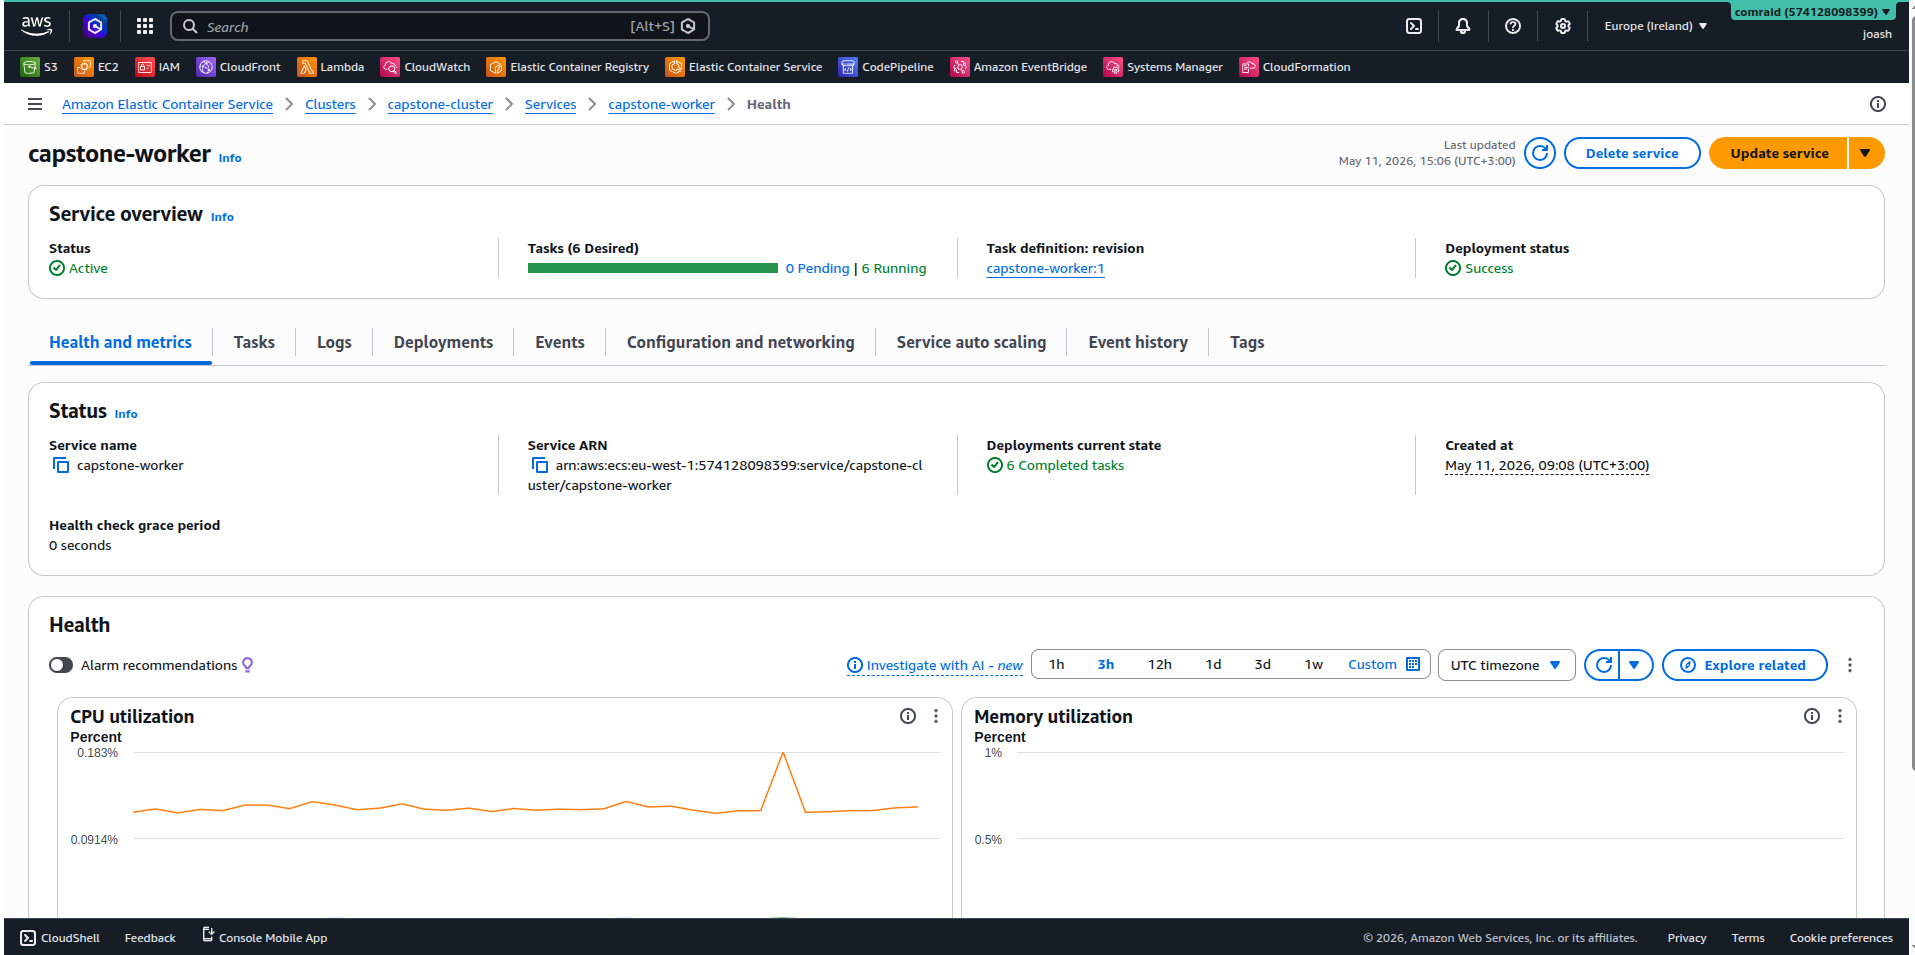
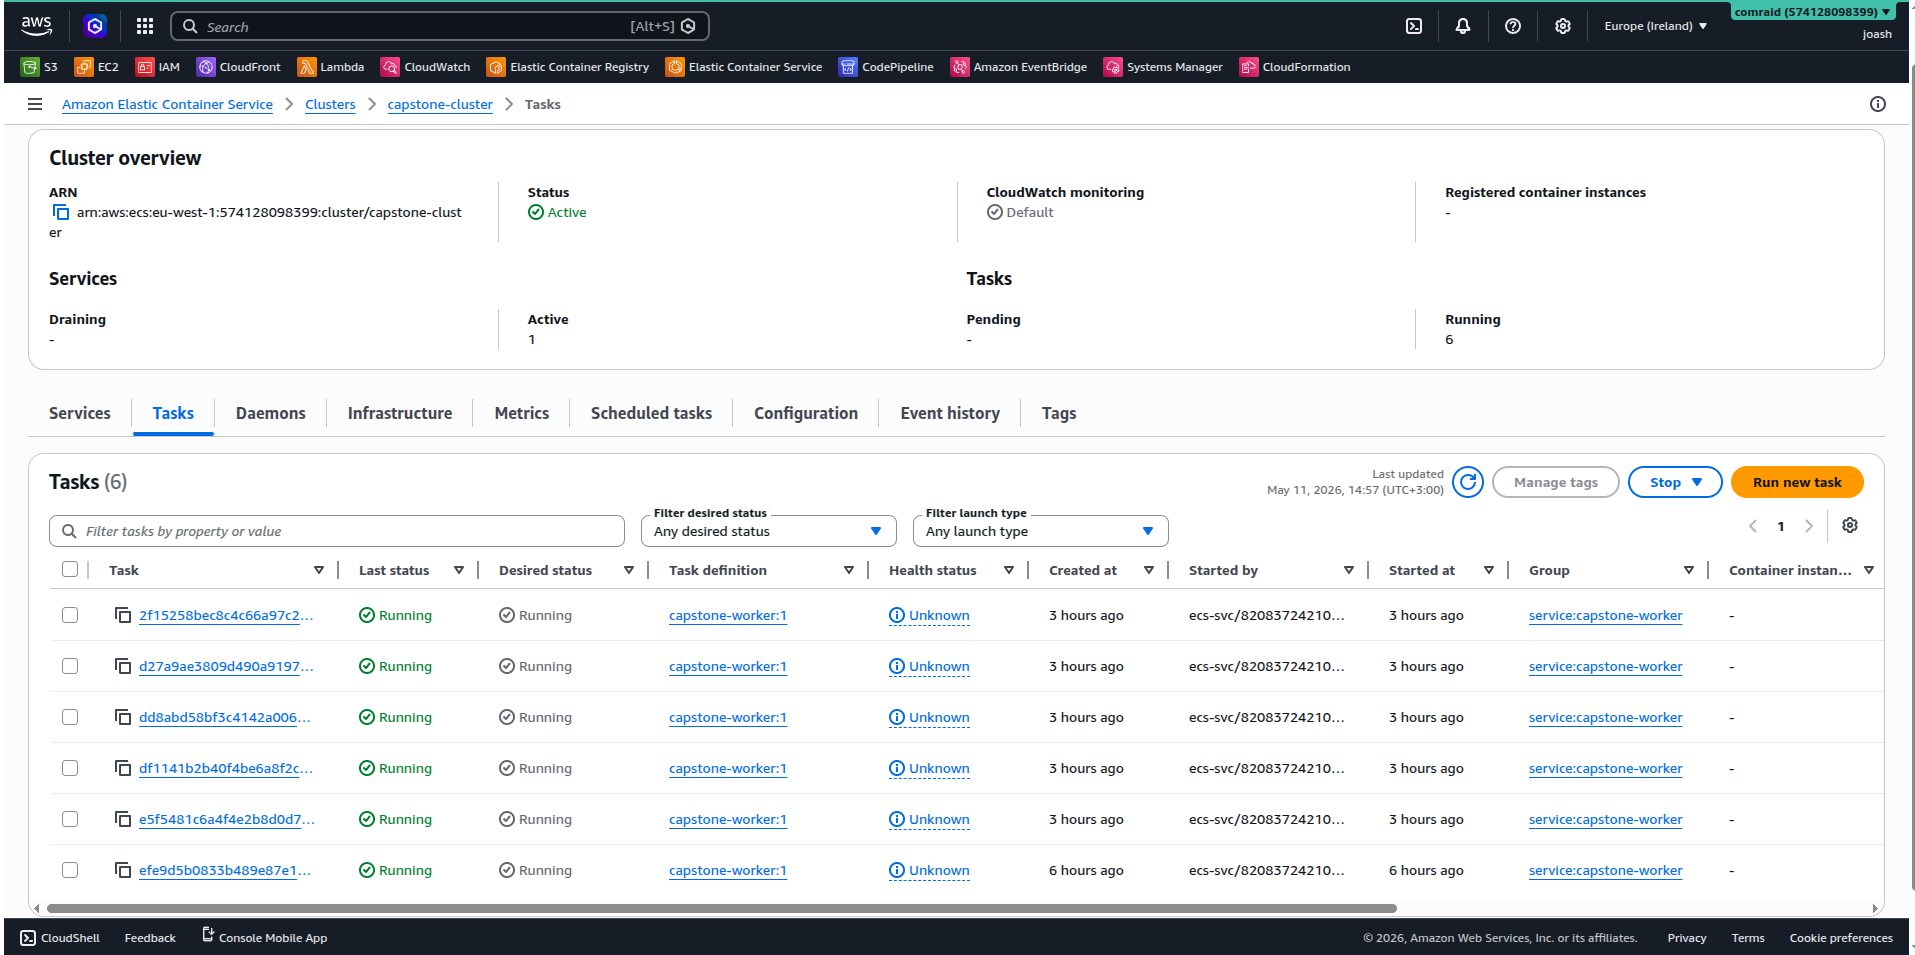
perfecting the README

diff --git a/README.md b/README.md
@@ -1,16 +1,14 @@
 # Capstone Lab — Resilient, Scalable & Recoverable AWS Architecture
 
-> **Course:** Moringa AWS DevOps Capstone (DAWSB-PT02M2)
-> **Author:** Omao Machoka (Joash)
 > **Primary Region:** eu-west-1 (Ireland) · **DR Region:** eu-central-1 (Frankfurt)
 
-## TL;DR
+## Summary
 
 A three-tier web application infrastructure on AWS that survives AZ failures (Multi-AZ HA), scales automatically under load (target-tracking autoscaling on requests and queue depth), and recovers from regional outages (warm-standby DR with 30-min RTO / 5-min RPO). All four rubric pillars demonstrated end-to-end with live infrastructure, executed load tests, and CloudWatch observability.
 
 ## Architecture
 
-![Architecture Diagram](Architecture%20Diagram.png)
+![Architecture Diagram](architecture-diagram.png)
 
 | Tier            | Components                        | Resilience mechanism                            |
 | --------------- | --------------------------------- | ----------------------------------------------- |
@@ -92,13 +90,13 @@ Target tracking automatically creates `AlarmHigh` (scale-out) and `AlarmLow` (sc
 
 Under simulated 50 req/s, target tracking jumped the ASG straight from 2 instances to the max of 6 in a single decision.
 
-![Web tier scale-out](docs/screenshots/load-test-web-c-scale-out.png)
+![Web tier scale-out](docs/screenshots/load-test-web-d-scale-out.png)
 
 ### Web tier load test — Scale-in
 
 Once load ended, scale-in unwound the 4 extra instances over ~3.5 minutes (staggered to avoid capacity cliffs).
 
-![Web tier scale-in](docs/screenshots/load-test-web-d-scale-in.png)
+![Web tier scale-in](docs/screenshots/load-test-web-c-scale-in.png)
 
 ### Worker tier — Scale-out
 
@@ -112,7 +110,7 @@ After queue purge, `AlarmLow` eventually fired and Fargate scaled back to 1 task
 
 ![Worker tier scale-in](docs/screenshots/load-test-worker-b-scale-in.png)
 
-> Raw scaling activity logs (`asg-scaling-history-web.txt`, `fargate-scaling-history-worker.txt`) in [`docs/load-test/`](docs/load-test).
+> Worker scaling activity log: `docs/load-test/fargate-scaling-history-worker.txt`. State snapshot at max: `docs/load-test/worker-state-at-max.txt`.
 
 ---
 
@@ -151,7 +149,7 @@ DR ALB live and serving from `eu-central-1a` — proof the warm standby is real,
 - **Route 53** hosted zone (`capstone.local`) with failover routing — primary alias to `eu-west-1` ALB with HTTP health check, secondary to `eu-central-1` ALB
 - **AWS Backup** vaults in both regions, daily plan with cross-region copy rule, on-demand backup executed as evidence
 
-> Full failover procedure (replica promotion, ASG scale-up, DNS verification, config update), failback, and limitations in [`docs/dr/dr-runbook.md`](docs/dr/dr-runbook.md). CLI captures in [`docs/dr/`](docs/dr).
+> Full failover procedure (replica promotion, ASG scale-up, DNS verification, config update), failback, and limitations in [`docs/dr/dr-runbook.md`](docs/dr/dr-runbook.md). CLI captures (RDS status, Route 53 records, vault listings, backup plan) in [`docs/dr/`](docs/dr).
 
 ---
 
@@ -165,7 +163,7 @@ ALB requests vs 5xx errors, Web ASG capacity, RDS CPU and connections, SQS depth
 
 ### CloudWatch Dashboard (bottom: workers + cache + DR)
 
-Fargate CPU/memory, ElastiCache health, and the DR RDS replica lag — the RPO indicator (target < 300s).
+Fargate worker CPU/memory (the spike at 11:30 and drop to 0% at 12:15 capture the full worker scale-out → scale-in cycle), ElastiCache health, and the DR RDS replica lag — the RPO indicator (target < 300s).
 
 ![Observability Dashboard B](docs/screenshots/observability-dashboard-b.png)
 
@@ -179,7 +177,7 @@ Fargate CPU/memory, ElastiCache health, and the DR RDS replica lag — the RPO i
 | `capstone-sqs-message-age`     | Oldest message > 5 min (worker lagging) |
 | `capstone-dr-replica-lag`      | Replica lag > 5 min (RPO violation)     |
 
-> Dashboard definition and alarm exports in [`docs/observability/`](docs/observability).
+> Dashboard definition (`dashboard-definition.json`) and alarm exports (`alarms-primary.txt`, `alarms-dr.txt`) in [`docs/observability/`](docs/observability).
 
 ---
 
@@ -187,15 +185,29 @@ Fargate CPU/memory, ElastiCache health, and the DR RDS replica lag — the RPO i
 
 ```
 .
-├── README.md                  ← this file
-├── architecture.svg           ← architecture diagram (SVG source)
-├── Architecture Diagram.png   ← rendered diagram
-├── spofs.md                   ← single-point-of-failure analysis
+├── README.md                   ← this file
+├── architecture-diagram.png    ← rendered architecture diagram
+├── architecture.svg            ← architecture diagram (SVG source)
+├── spofs.md                    ← single-point-of-failure analysis
+├── lab.env                     ← captured resource IDs
 └── docs/
-    ├── dr/                    ← DR runbook + CLI evidence
-    ├── load-test/             ← Artillery configs + scaling activity logs
-    ├── observability/         ← Dashboard JSON + alarm exports
-    └── screenshots/           ← All visual evidence
+    ├── dr/
+    │   ├── dr-runbook.md
+    │   ├── backup-job-status.txt
+    │   ├── backup-plan.json
+    │   ├── backup-vaults.txt
+    │   ├── dr-alb-targets.txt
+    │   ├── dynamodb-global-table.txt
+    │   ├── rds-replica-status.txt
+    │   └── route53-failover-records.txt
+    ├── load-test/
+    │   ├── fargate-scaling-history-worker.txt
+    │   └── worker-state-at-max.txt
+    ├── observability/
+    │   ├── alarms-primary.txt
+    │   ├── alarms-dr.txt
+    │   └── dashboard-definition.json
+    └── screenshots/            ← all visual evidence (HA 1.x, Scalability 2.x, load-test-*, ha-*, dr-*, observability-*)
 ```
 
 ---